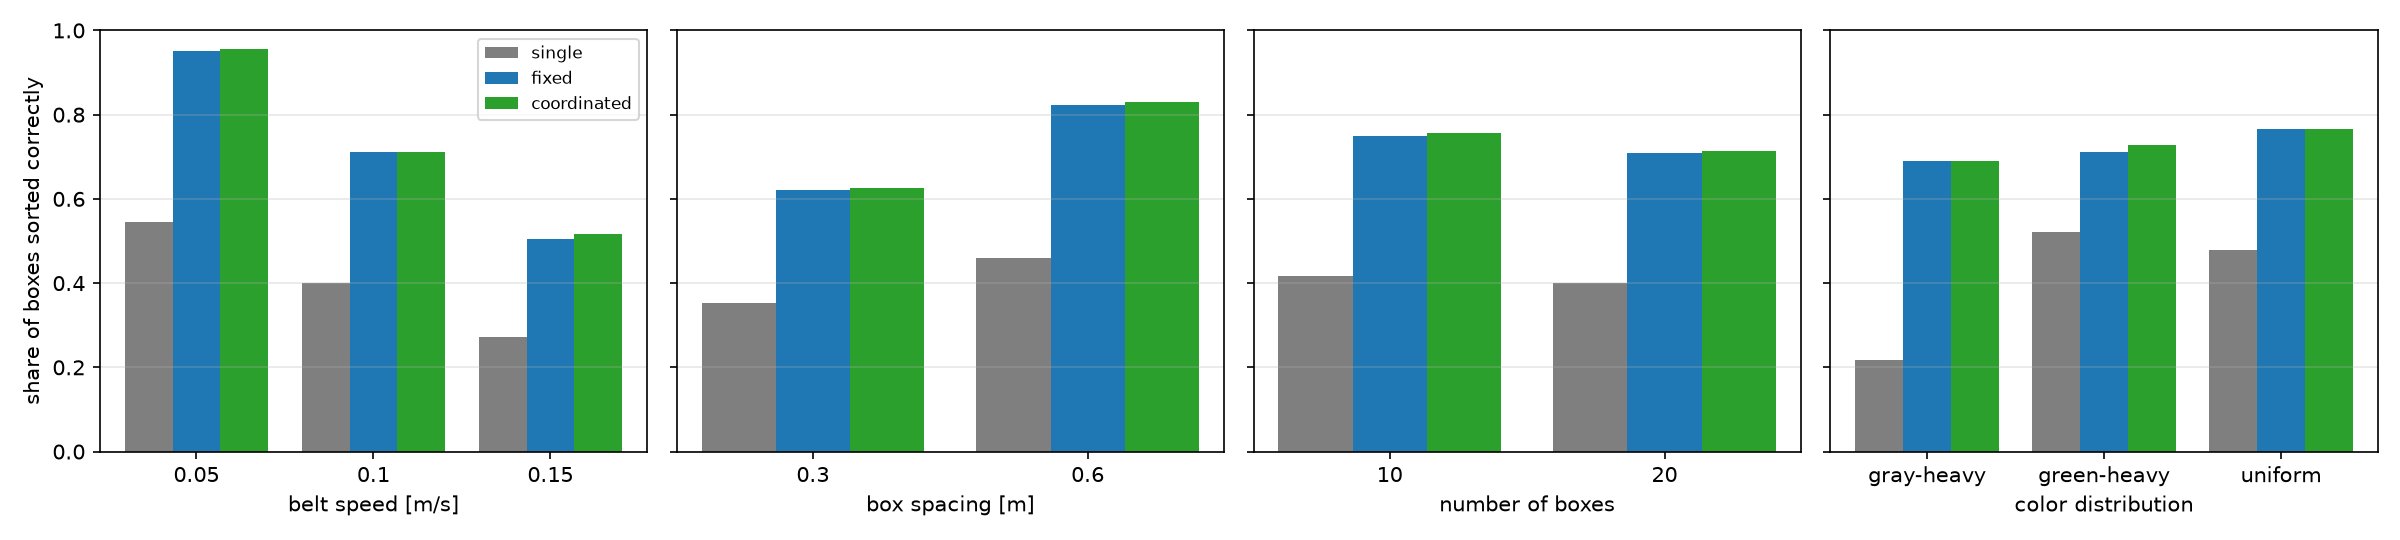
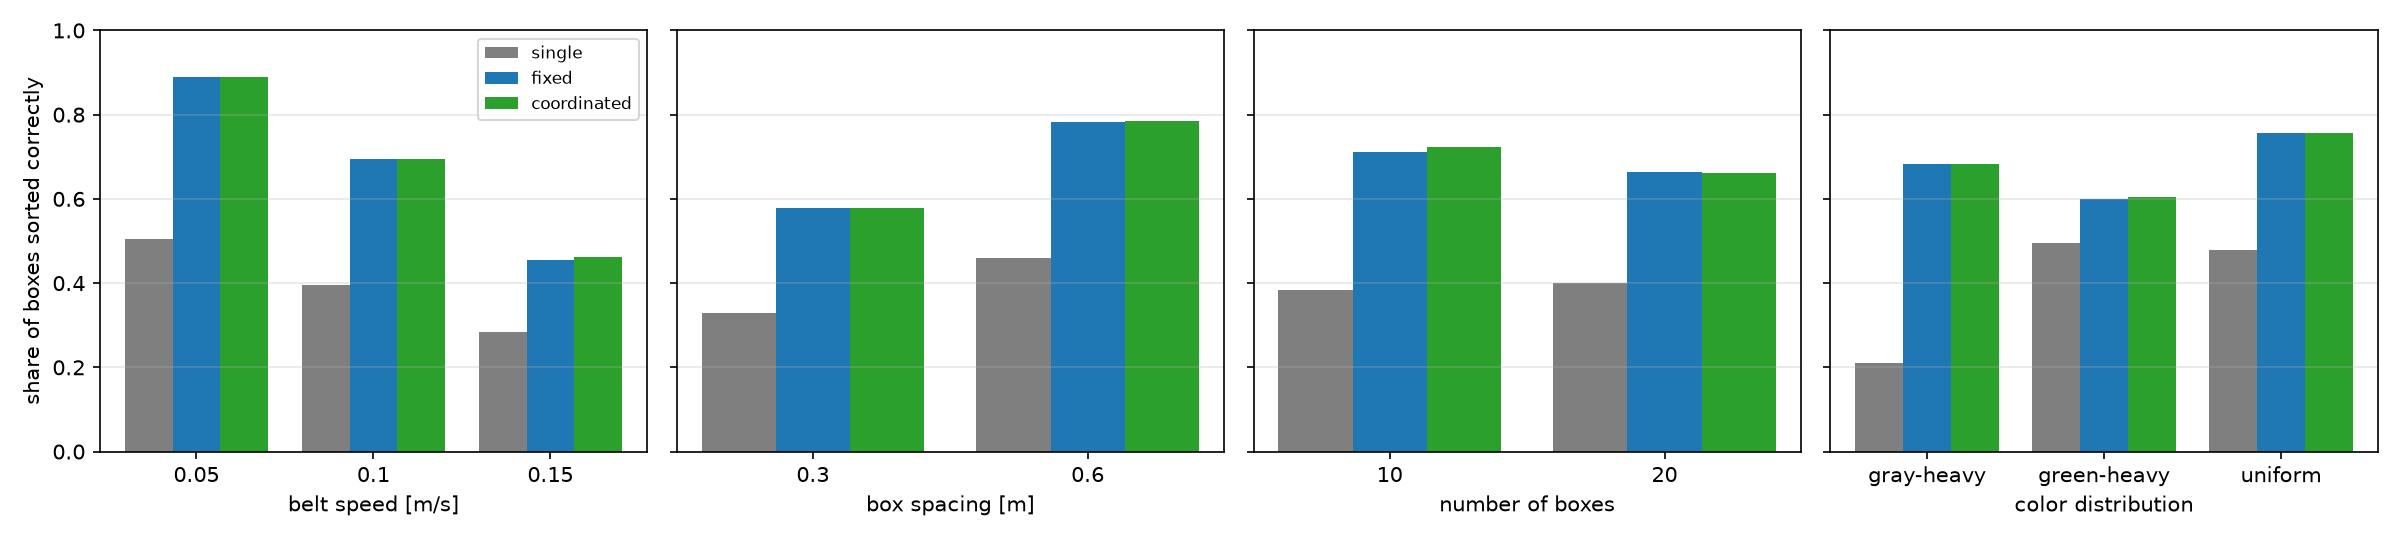
Figures and tables on the new layout (#154)

diff --git a/evaluation/figures/tables.md b/evaluation/figures/tables.md
@@ -6,32 +6,32 @@ Generated by `evaluation/make_figures.py` from the CSV files in `results/`. Do n
 
 | streams | single | fixed | coordinated |
 |---|---|---|---|
-| all streams | 40.6% | 72.2% | 72.8% |
-| belt speed 0.05 | 54.4% | 95.0% | 95.6% |
-| belt speed 0.1 | 40.0% | 71.1% | 71.1% |
-| belt speed 0.15 | 27.2% | 50.6% | 51.7% |
-| box spacing 0.3 | 35.2% | 62.2% | 62.6% |
-| box spacing 0.6 | 45.9% | 82.2% | 83.0% |
-| number of boxes 10 | 41.7% | 75.0% | 75.6% |
-| number of boxes 20 | 40.0% | 70.8% | 71.4% |
-| color distribution gray-heavy | 21.7% | 68.9% | 68.9% |
-| color distribution green-heavy | 52.2% | 71.1% | 72.8% |
-| color distribution uniform | 47.8% | 76.7% | 76.7% |
+| all streams | 39.4% | 68.0% | 68.1% |
+| belt speed 0.05 | 50.6% | 88.9% | 88.9% |
+| belt speed 0.1 | 39.4% | 69.4% | 69.4% |
+| belt speed 0.15 | 28.3% | 45.6% | 46.1% |
+| box spacing 0.3 | 33.0% | 57.8% | 57.8% |
+| box spacing 0.6 | 45.9% | 78.1% | 78.5% |
+| number of boxes 10 | 38.3% | 71.1% | 72.2% |
+| number of boxes 20 | 40.0% | 66.4% | 66.1% |
+| color distribution gray-heavy | 21.1% | 68.3% | 68.3% |
+| color distribution green-heavy | 49.4% | 60.0% | 60.6% |
+| color distribution uniform | 47.8% | 75.6% | 75.6% |
 
 ## Manipulation: all metrics per configuration
 
 | metric | single | fixed | coordinated |
 |---|---|---|---|
-| sorted correctly | 40.6% | 72.2% | 72.8% |
-| left the belt | 59.4% | 27.8% | 27.2% |
+| sorted correctly | 39.4% | 68.0% | 68.1% |
+| left the belt | 59.4% | 28.7% | 28.7% |
 | grasp success rate | 1.00 | 1.00 | 1.00 |
 | sorting accuracy | 1.00 | 1.00 | 1.00 |
-| throughput [boxes/min] | 3.31 | 5.94 | 5.99 |
-| planning time per pick-and-place, mean [s] | 0.16 | 0.15 | 0.15 |
-| planning time, worst run [s] | 0.38 | 0.46 | 0.43 |
-| completion time, mean [s] | 87 | 99 | 99 |
-| shared-area conflicts per run | 0.00 | 0.00 | 0.22 |
-| waiting time per run [s] | 0.00 | 0.00 | 0.62 |
+| throughput [boxes/min] | 3.24 | 5.59 | 5.62 |
+| planning time per pick-and-place, mean [s] | 0.14 | 0.13 | 0.14 |
+| planning time, worst run [s] | 0.22 | 0.46 | 0.55 |
+| completion time, mean [s] | 90 | 94 | 94 |
+| shared-area conflicts per run | 0.00 | 2.44 | 2.42 |
+| waiting time per run [s] | 0.00 | 3.61 | 3.57 |
 
 ## Manipulation: streams with blocked pairs (3 streams per configuration)
 
@@ -39,22 +39,22 @@ Generated by `evaluation/make_figures.py` from the CSV files in `results/`. Do n
 |---|---|---|---|---|
 | single | 35.0% | 18 | 0 | - |
 | fixed | 40.0% | 18 | 0 | - |
-| coordinated | 53.3% | 18 | 4 | 100% |
+| coordinated | 70.0% | 18 | 12 | 100% |
 
 ## Manipulation: kinematic vs physics (36 streams per configuration, ground-truth detections)
 
 | metric | single, kinematic | single, physics | fixed, kinematic | fixed, physics | coordinated, kinematic | coordinated, physics |
 |---|---|---|---|---|---|---|
-| sorted correctly | 40.6% | 30.9% | 72.2% | 52.4% | 72.8% | 54.1% |
-| left the belt | 59.4% | 66.5% | 27.8% | 43.0% | 27.2% | 41.3% |
-| grasp success rate | 1.00 | 1.00 | 1.00 | 0.98 | 1.00 | 0.98 |
-| throughput [boxes/min] | 3.31 | 2.51 | 5.94 | 4.37 | 5.99 | 4.53 |
-| planning time per pick-and-place, mean [s] | 0.16 | 1.59 | 0.15 | 1.53 | 0.15 | 1.56 |
-| completion time, mean [s] | 87 | 88 | 99 | 100 | 99 | 101 |
-| grasp failures / slips / drops / other | - | 1 / 0 / 20 / 7 | - | 7 / 0 / 18 / 41 | - | 11 / 0 / 18 / 40 |
-| failed attempts per 100 boxes | - | 5.2 | - | 12.2 | - | 12.8 |
-| arm contacts | - | 1 | - | 13 | - | 9 |
-| closest arm approach [cm] | - | -0.1 | - | -5.5 | - | -0.6 |
+| sorted correctly | 39.4% | 34.6% | 68.0% | 54.8% | 68.1% | 53.7% |
+| left the belt | 59.4% | 64.3% | 28.7% | 44.4% | 28.7% | 45.2% |
+| grasp success rate | 1.00 | 1.00 | 1.00 | 0.94 | 1.00 | 0.97 |
+| throughput [boxes/min] | 3.24 | 2.78 | 5.59 | 4.29 | 5.62 | 4.27 |
+| planning time per pick-and-place, mean [s] | 0.14 | 1.48 | 0.13 | 1.53 | 0.14 | 1.52 |
+| completion time, mean [s] | 90 | 91 | 94 | 96 | 94 | 97 |
+| grasp failures / slips / drops / other | 0 / 0 / 0 / 6 | 0 / 0 / 5 / 1 | 0 / 0 / 0 / 18 | 16 / 0 / 1 / 8 | 0 / 0 / 0 / 17 | 11 / 0 / 0 / 21 |
+| failed attempts per 100 boxes | 1.1 | 1.1 | 3.3 | 4.6 | 3.1 | 5.9 |
+| arm contacts | 0 | 0 | 0 | 0 | 0 | 0 |
+| closest arm approach [cm] | inf | 1.3 | inf | 1.7 | inf | 2.8 |
 
 ## Perception: detectors on the same scenes
 
@@ -96,14 +96,14 @@ Generated by `evaluation/make_figures.py` from the CSV files in `results/`. Do n
 
 | belt | commands | parsed | correct color | correct destination | success rate | time mean / max [s] | Robot 1 / Robot 2 |
 |---|---|---|---|---|---|---|---|
-| 0.1 m/s, a box every 4 s | 40 | 40 | 40 | 40 | 100% | 17.6 / 54.0 | 29 / 11 |
-| 0.2 m/s, a box every 2 s | 30 | 30 | 30 | 30 | 100% | 15.0 / 26.6 | 22 / 8 |
+| 0.1 m/s, a box every 4 s | 40 | 40 | 40 | 40 | 100% | 18.0 / 54.0 | 31 / 9 |
+| 0.2 m/s, a box every 2 s | 40 | 40 | 40 | 40 | 100% | 17.2 / 37.5 | 31 / 9 |
 
 ## Command mode on physics: random commands (a box every 0.4 m; blocked: a gray box 8 cm in front of each colored one)
 
 | belt | stream | commands | success rate | time mean / max [s] | failures | Robot 1 / Robot 2 |
 |---|---|---|---|---|---|---|
-| 0.1 m/s | normal | 40 | 92% | 20.6 / 62.9 | drop 1, grasp 2 | 25 / 15 |
-| 0.2 m/s | normal | 40 | 98% | 20.2 / 38.9 | grasp 1 | 23 / 17 |
-| 0.1 m/s | every box blocked | 40 | 90% | 20.7 / 61.3 | drop 1, grasp 2, release 1 | 27 / 13 |
-| 0.2 m/s | every box blocked | 40 | 75% | 17.0 / 36.9 | grasp 9, lift 1 | 25 / 15 |
+| 0.1 m/s | normal | 40 | 82% | 20.2 / 56.3 | grasp 4, release 3 | 28 / 12 |
+| 0.2 m/s | normal | 40 | 100% | 18.9 / 43.8 | - | 28 / 12 |
+| 0.1 m/s | every box blocked | 40 | 88% | 20.3 / 68.1 | grasp 4, place 1 | 28 / 12 |
+| 0.2 m/s | every box blocked | 40 | 92% | 17.5 / 35.4 | grasp 3 | 28 / 12 |
